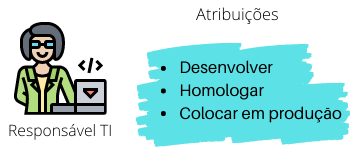
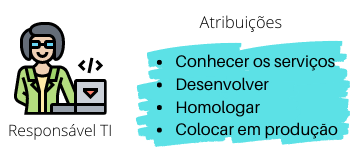
documentação

diff --git a/guia/docusaurus.config.js b/guia/docusaurus.config.js
@@ -50,16 +50,8 @@ module.exports = {
           title: "Comunidade",
           items: [
             {
-              label: "Stack Overflow",
-              href: "https://stackoverflow.com/questions/tagged/docusaurus",
-            },
-            {
-              label: "Discord",
-              href: "https://discordapp.com/invite/docusaurus",
-            },
-            {
-              label: "Twitter",
-              href: "https://twitter.com/docusaurus",
+              label: "GitHub",
+              href: "https://github.com/kyriosdata/rnds",
             },
           ],
         },
@@ -67,13 +59,9 @@ module.exports = {
           title: "Outros",
           items: [
             {
-              label: "Blog",
+              label: "Notícias",
               to: "blog",
-            },
-            {
-              label: "GitHub",
-              href: "https://github.com/kyriosdata/rnds",
-            },
+            }
           ],
         },
       ],

diff --git a/guia/sidebars.js b/guia/sidebars.js
@@ -24,8 +24,8 @@ module.exports = {
       TI: [
         "ti",
         "postman",
-        "requisicoes",
         "si",
+        "requisicoes",
         "erros",
         "autenticacao",
       ],

diff --git a/guia/docs/publico-alvo.md b/guia/docs/publico-alvo.md
@@ -4,10 +4,10 @@ title: Público-alvo
 sidebar_label: Público-alvo
 ---
 
-Engenheiros de Software, integradores, desenvolvedores, técnicos de TI, técnicos de departamentos de informação em saúde, bem como coordenadores de setor de tecnologia das secretarias municipais de saúde estão entre os principais profissionais para acessar o Portal da RNDS. Em geral, estarão orientando e/ou realizando as ações necessárias para integração com a RNDS. 
+Engenheiros de Software, integradores, desenvolvedores, técnicos de TI, técnicos de departamentos de informação em saúde, bem como coordenadores de setor de tecnologia das secretarias municipais de saúde, estão entre os principais profissionais envolvidos com o acesso aos serviços da RNDS. Em geral, estarão orientando e/ou realizando as ações necessárias para integração com a RNDS. 
 
 Os gestores de estabelecimentos de saúde também precisam entender como todo fluxo de informações deverá funcionar em relação a troca e envio da informação, tanto com qualidade quanto precisão.
 
-Neste Guia, por simplicidade, os nomes, cargos, papéis e perfis citados acima, dentre outros empregados pelo país, estão reunidos pelas atribuições para a integração com a RNDS em dois atores. Estes atores, ilustrados abaixo, são: (a) [gestor](./gestor) e (b) responsável pela [TI](./ti) (Tecnologia da Informação).
+Neste Guia, por simplicidade, os nomes, cargos, papéis e perfis citados acima, dentre outros empregados pelo país, estão reunidos pelas atribuições para a integração com a RNDS em dois atores. Estes atores, ilustrados abaixo, são: (a) [gestor](./gestor) e (b) [responsável pela TI](./ti) (Tecnologia da Informação).
 
 ![atores](../static/img/atores.png)

diff --git a/guia/docs/roteiro.md b/guia/docs/roteiro.md
@@ -19,11 +19,11 @@ Abaixo segue uma orientação, passo a passo, das atividades a serem desempenhad
 [TI](./ti). 
 
 A sequência sugerida é fornecida abaixo:
-1. Obter o [certificado digital](./certificado).
-1. Caso não possua, o gestor deve criar uma conta [gov.br](https://www.gov.br/pt-br/servicos/criar-sua-conta-meu-gov.br).
-1. [Solicitar acesso](./portal) à RNDS, e aguardar resposta do DATASUS. 
-1. Obter [identificador](./identificador) do solicitante.
-1. Compreender a [interação](./postman) com os serviços (entradas/saídas).
+1. O gestor obtém o [certificado digital](./certificado).
+1. O gestor cria uma conta [gov.br](https://www.gov.br/pt-br/servicos/criar-sua-conta-meu-gov.br), caso não possua uma.
+1. O gestor [solicita acesso](./portal) à RNDS, e aguarda a resposta do DATASUS. 
+1. O gestor obtém o [identificador do solicitante](./identificador) após a aprovação da solicitante de acesso.
+1. O profissional de TI [interage](./postman) com os serviços (entradas/saídas) oferecidos e, dessa forma, os conhece e os compreende.
 1. Desenvolver o [Software de Integração](./si)
 1. Homologar
 1. Colocar em produção

diff --git a/guia/docs/postman.md b/guia/docs/postman.md
@@ -1,11 +1,12 @@
 ---
 id: postman
-title: Primeiro contato
-sidebar_label: Primeiro contato
+title: Interagir com os serviços
+sidebar_label: Interagir com os serviços
 ---
 
-A adoção do padrão FHIR significa "independência tecnológica" dos laboratórios em relação à RNDS. Ou seja, a RNDS não impõe, restringe ou orienta decisões
-no escopo do ecossistema do laboratório. Ou seja, as tecnologias empregadas e como são utilizadas no âmbito do laboratório (nó Laboratório na figura abaixo), é feito com a total autonomia do laboratório.
+A adoção do padrão FHIR significa "independência tecnológica" dos estabelecimentos de saúde em relação à RNDS. Ou seja, a RNDS não impõe, restringe ou orienta decisões no escopo do ecossistema do estabelecimento de saúde. 
+
+As tecnologias empregadas e como são utilizadas, no âmbito do estabelecimento de saúde (nó Laboratório na figura abaixo), cabem ao  estabelecimento decidir.
 
 ![img](../static/img/rnds-deployment.png)
 

diff --git a/guia/docs/si.md b/guia/docs/si.md
@@ -1,7 +1,7 @@
 ---
 id: si
-title: Software de Integração
-sidebar_label: Software de Integração
+title: Desenvolver
+sidebar_label: Desenvolver
 ---
 
 O _software_ de integração com a RNDS é específico para esta finalidade e, portanto, demanda esforço correspondente de profissional de TI. Abaixo segue uma análise preliminar e genérica tanto das funcionalidades quando do _design_ de um software que atende tais funcionalidades para a integração. Cada cenário de integração é específico e, portanto, talvez você prefira saltar o que segue e ir diretamente para as 

diff --git a/guia/docs/gestor.md b/guia/docs/gestor.md
@@ -5,7 +5,7 @@ sidebar_label: Atribuições
 ---
 
 A integração com a RNDS exige atribuições distribuídas entre dois
-papéis. Um deles é o responsável pela [TI](./ti) do estabelecimento de saúde. O outro é o gestor do estabelecimento de saúde. 
+papéis. Um deles é o [responsável pela TI](./ti) do estabelecimento de saúde. O outro é o gestor do estabelecimento de saúde. 
 
 ![img](../static/img/gestor.png)
 
